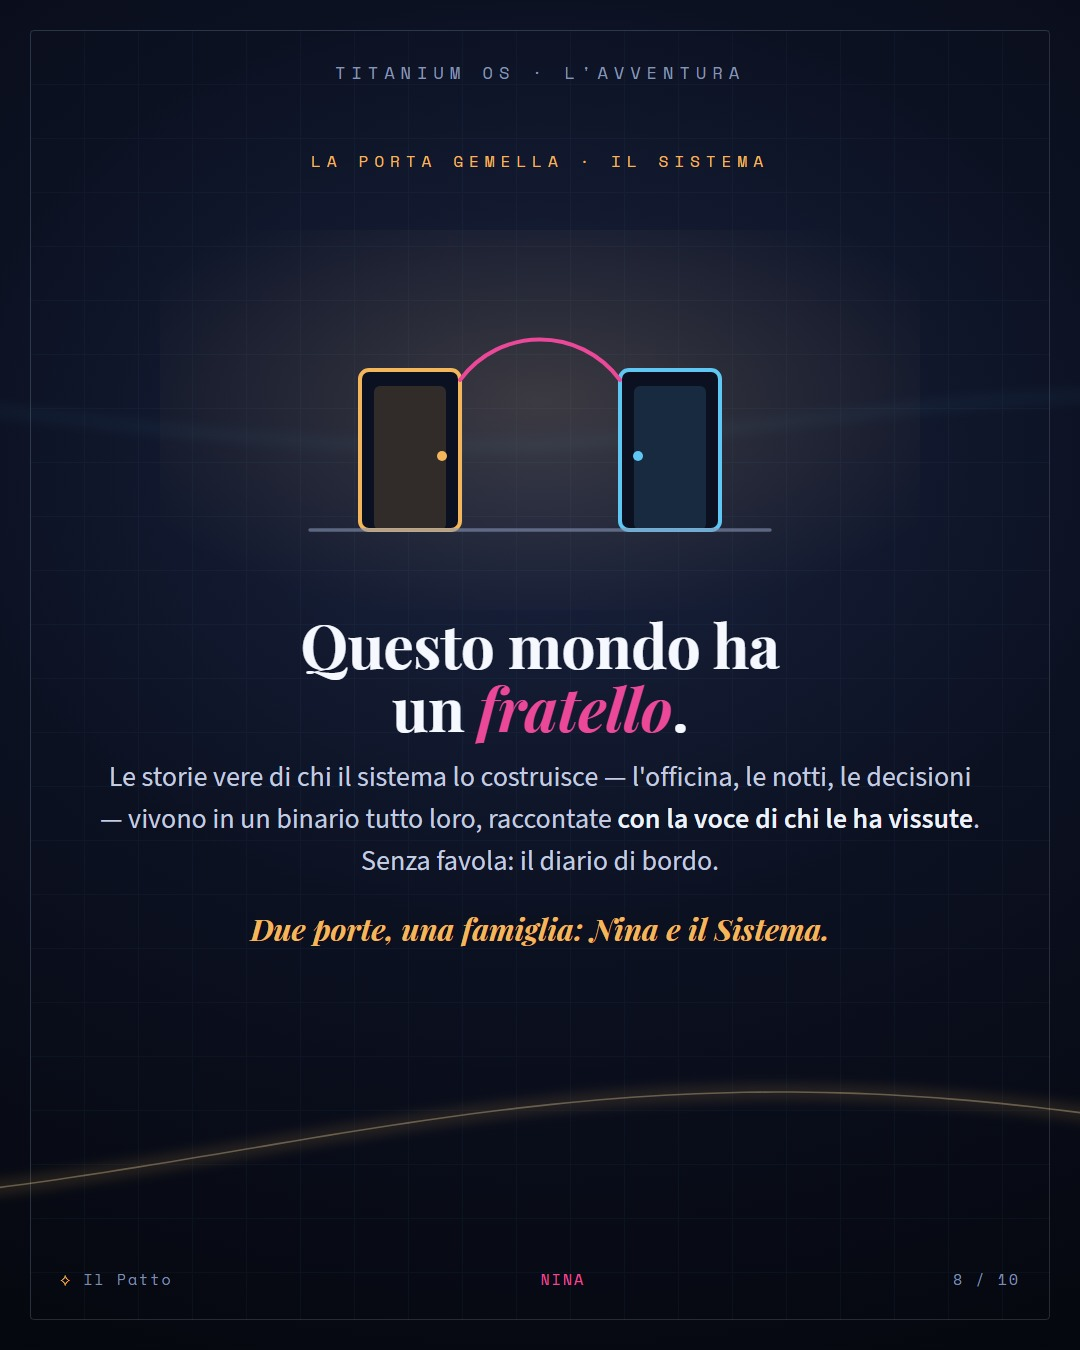
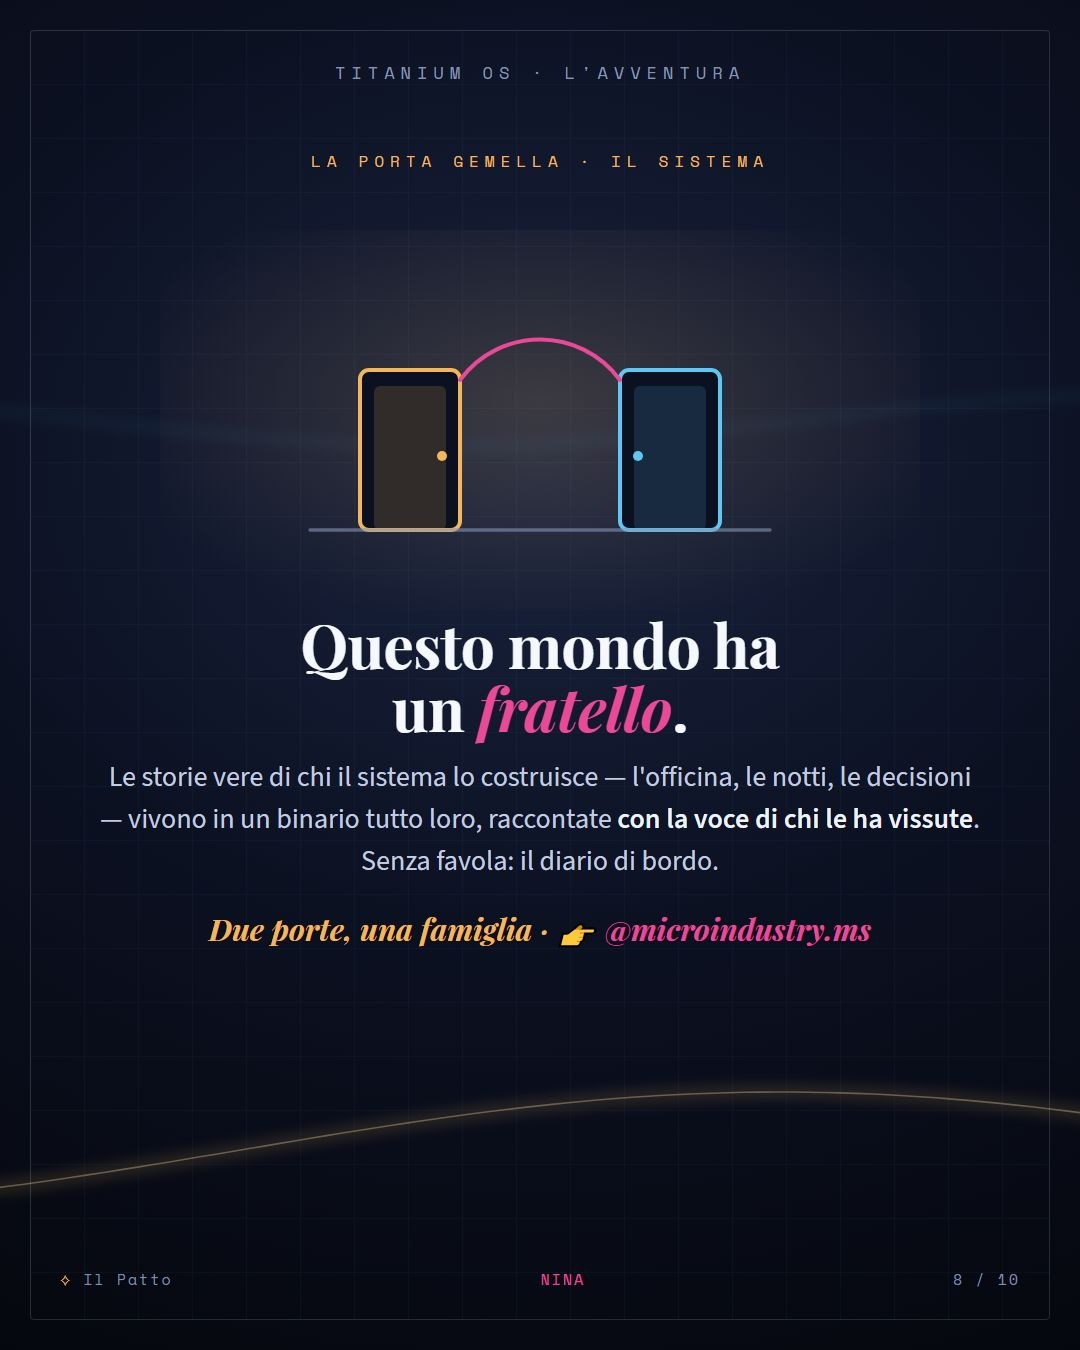
feat(caroselli): slide-ponte con @handle cross-profilo (PRE_04 + PRE_SG_04)
Aggiunto l'@mention dell'altro profilo sulla slide 8 dei 2 caroselli-ponte, così
la cross-promo è visibile anche a chi non legge la caption:
- NINA/PRE_04 slide 8 "porta gemella" -> 👉 @microindustry.ms
- SISTEMA/PRE_SG_04 slide 8 "L'altra porta" -> 👉 @ilmondodinina.ms
Editati i sorgenti _build_*.py, rigenerato carosello.html, reso via nuovo strumento
riusabile _render_slide.py (chrome headless, 1 slide 1080x1350), copiato in coda.
Verificate a occhio (layout intatto). Post gia in coda -> Matteo ha cancellato e ricaricato.

Claude-Session: https://claude.ai/code/session_01GY8W3BtJXUYBJLwVs1NQzK

Changed region(s): [[0.1833, 0.6533, 0.825, 0.7156]]

diff --git a/CONTENT_ENGINE/DATABASE/MONDO/POSTER/CAROSELLI/SISTEMA/PRE_SG_04/carosello.html b/CONTENT_ENGINE/DATABASE/MONDO/POSTER/CAROSELLI/SISTEMA/PRE_SG_04/carosello.html
@@ -68,7 +68,7 @@ body { display:flex; flex-direction:column; align-items:center; gap:40px; paddin
   <div class="scene"><svg width="760" height="360" viewBox="0 0 760 360" fill="none"><defs><radialGradient id="glow" cx="50%" cy="45%" r="60%"><stop offset="0%" stop-color="#5fc7f3" stop-opacity="0.16"/><stop offset="100%" stop-color="#5fc7f3" stop-opacity="0"/></radialGradient><radialGradient id="glowg" cx="50%" cy="45%" r="60%"><stop offset="0%" stop-color="#f4b65a" stop-opacity="0.16"/><stop offset="100%" stop-color="#f4b65a" stop-opacity="0"/></radialGradient></defs><rect width="760" height="360" fill="url(#glow)"/><path d="M330 90 L380 210" stroke="#eef2fb" stroke-width="5" stroke-linecap="round"/><path d="M330 90 L318 60 M330 90 L300 84" stroke="#8595b4" stroke-width="4" stroke-linecap="round"/><circle cx="380" cy="214" r="10" fill="#f4b65a"/><circle cx="380" cy="214" r="26" stroke="#f4b65a" stroke-opacity="0.5" stroke-width="2"/><path d="M380 214 L420 190 M380 214 L430 226 M380 214 L400 258 M380 214 L352 256" stroke="#f4b65a" stroke-width="3" stroke-linecap="round" stroke-opacity="0.85"/><path d="M140 268 H620" stroke="#5fc7f3" stroke-width="3" stroke-linecap="round" stroke-opacity="0.7"/><path d="M170 268 v-16 h60 v16 M420 268 v-22 h90 v22" stroke="#8595b4" stroke-width="3" stroke-opacity="0.8"/></svg></div>
   <div class="body2">
     <div class="lead">Una macchina costruita<br>in <span class="cyan">casa</span>. Da zero.</div>
-    <div class="intro">La caccia ai pezzi giusti, i tentativi sbagliati prima di quello buono, e un corpo unico d'acciaio progettato per non tremare — oggi al telaio, ogni pezzo scelto. <span class="soft">Ogni decisione, raccontata.</span></div>
+    <div class="intro">La caccia ai pezzi giusti, i tentativi sbagliati prima di quello buono, e un corpo d'acciaio da 178 kg che non trema. <span class="soft">Ogni decisione, raccontata.</span></div>
   </div>
   <div class="footer"><span>TITANIUM_OS</span><span class="dot">PRE_SG_04 · 3 / 10</span><span class="matteo">matteo</span></div>
 </div>
@@ -133,7 +133,7 @@ body { display:flex; flex-direction:column; align-items:center; gap:40px; paddin
   <div class="scene"><svg width="760" height="360" viewBox="0 0 760 360" fill="none"><defs><radialGradient id="glow" cx="50%" cy="45%" r="60%"><stop offset="0%" stop-color="#5fc7f3" stop-opacity="0.16"/><stop offset="100%" stop-color="#5fc7f3" stop-opacity="0"/></radialGradient><radialGradient id="glowg" cx="50%" cy="45%" r="60%"><stop offset="0%" stop-color="#f4b65a" stop-opacity="0.16"/><stop offset="100%" stop-color="#f4b65a" stop-opacity="0"/></radialGradient></defs><rect width="760" height="360" fill="url(#glow)"/><rect x="340" y="140" width="100" height="150" rx="8" stroke="#ec4899" stroke-width="4" fill="#0c1122"/><circle cx="420" cy="218" r="5" fill="#ec4899"/><text x="390" y="106" text-anchor="middle" font-family="playfair-display" font-size="44" fill="#ec4899" font-style="italic">?</text></svg></div>
   <div class="body2">
     <div class="lead">C'è anche una porta<br><span class="pink">rosa</span>.</div>
-    <div class="intro">Si chiama <span class="pink">Nina</span>: lo stesso sistema, spiegato giocando — una bambina che chiede «perché?» a ogni cosa. Per i piccoli. <span class="soft">E per i grandi che vogliono capire davvero.</span></div>
+    <div class="intro">Si chiama <span class="pink">Nina</span>: lo stesso sistema, spiegato giocando — una bambina che chiede «perché?» a ogni cosa. Per i piccoli. <span class="soft">E per i grandi che vogliono capire davvero.</span></div><div class="seal">La porta di Nina · 👉 @ilmondodinina.ms</div>
   </div>
   <div class="footer"><span>TITANIUM_OS</span><span class="dot">PRE_SG_04 · 8 / 10</span><span class="matteo">matteo</span></div>
 </div>

diff --git a/CONTENT_ENGINE/DATABASE/MONDO/POSTER/CAROSELLI/NINA/PRE_04/carosello.html b/CONTENT_ENGINE/DATABASE/MONDO/POSTER/CAROSELLI/NINA/PRE_04/carosello.html
@@ -181,7 +181,7 @@ body { display:flex; flex-direction:column; align-items:center; gap:40px; paddin
   <div class="body2 s2">
     <div class="lead">Questo mondo ha<br>un <span class="pink">fratello</span>.</div>
     <div class="intro">Le storie vere di chi il sistema lo costruisce — l'officina, le notti, le decisioni — vivono in un binario tutto loro, raccontate <span class="soft">con la voce di chi le ha vissute</span>. Senza favola: il diario di bordo.</div>
-    <div class="seal">Due porte, una famiglia: Nina e il Sistema.</div>
+    <div class="seal">Due porte, una famiglia · 👉 <span class="pink">@microindustry.ms</span></div>
   </div>
   <div class="footer"><span><span class="dot">⟡</span>&nbsp;Il Patto</span><span class="nina">NINA</span><span>8 / 10</span></div>
 </div>

diff --git a/CONTENT_ENGINE/DATABASE/MONDO/POSTER/CAROSELLI/_render_slide.py b/CONTENT_ENGINE/DATABASE/MONDO/POSTER/CAROSELLI/_render_slide.py
@@ -1,0 +1,34 @@
+# _render_slide.py | TITANIUM_OS / CAROSELLI | v1.0 | 2026-07-20
+# Rende UNA slide (1080x1350) di un carosello.html a marker <!-- ===== N -->.
+# Compatibile coi caroselli build-style con SVG inline per-slide (no <svg width="0"> globale).
+# Uso: python _render_slide.py <carosello.html> <out.jpg> <N>
+import sys, os, re, subprocess, tempfile
+from PIL import Image
+
+html, out, n = sys.argv[1], os.path.abspath(sys.argv[2]), int(sys.argv[3])
+src = open(html, encoding="utf-8").read()
+
+# head: togli gap/padding della colonna così la singola slide sta a 0,0
+head = (src.split("<body>")[0]
+        .replace("padding:40px 0", "padding:0")
+        .replace("gap:40px", "gap:0"))
+
+a = src.index(f"<!-- ===== {n} ")
+nxt = src.find("<!-- ===== ", a + 5)
+b = nxt if nxt != -1 else src.index("</body>")
+block = src[a:b].strip()
+
+doc = head + "<body>\n" + block + "\n</body></html>"
+tmp = out + ".tmp.html"
+open(tmp, "w", encoding="utf-8").write(doc)
+
+chrome = r"C:\Program Files\Google\Chrome\Application\chrome.exe"
+ud = tempfile.mkdtemp(prefix="chr_sl_")
+subprocess.run([chrome, "--headless", "--disable-gpu", "--hide-scrollbars",
+                f"--user-data-dir={ud}", "--window-size=1080,1350",
+                "--virtual-time-budget=5000", f"--screenshot={out}",
+                "file:///" + os.path.abspath(tmp).replace("\\", "/")], check=False)
+im = Image.open(out)
+im.crop((0, 0, 1080, 1350)).convert("RGB").save(out, quality=92)
+os.remove(tmp)
+print("rendered", out, "->", im.size)

diff --git a/CONTENT_ENGINE/DATABASE/MONDO/POSTER/CAROSELLI/SISTEMA/PRE_SG_04/_build_pre_sg_04.py b/CONTENT_ENGINE/DATABASE/MONDO/POSTER/CAROSELLI/SISTEMA/PRE_SG_04/_build_pre_sg_04.py
@@ -52,7 +52,8 @@ S = [
          intro='Su Instagram il taglio social di ogni storia; il percorso completo — piu profondo, con tutti i capitoli — vive sul sito.'),
     dict(social=True, scene="porta_nina", kicker="L'ALTRA PORTA",
          lead='C\'è anche una porta<br><span class="pink">rosa</span>.',
-         intro='Si chiama <span class="pink">Nina</span>: lo stesso sistema, spiegato giocando — una bambina che chiede «perché?» a ogni cosa. Per i piccoli. <span class="soft">E per i grandi che vogliono capire davvero.</span>'),
+         intro='Si chiama <span class="pink">Nina</span>: lo stesso sistema, spiegato giocando — una bambina che chiede «perché?» a ogni cosa. Per i piccoli. <span class="soft">E per i grandi che vogliono capire davvero.</span>',
+         seal='La porta di Nina · 👉 @ilmondodinina.ms'),
     dict(social=False, scene="patto", kicker="IL PATTO, IN UNA RIGA",
          lead='Tutto <span class="accent">vero</span>.<br>Fonti, numeri, guasti.',
          intro='L\'AI che produce è dichiarata, il controllo è automatico, la voce è la mia.'),

diff --git a/CONTENT_ENGINE/DATABASE/MONDO/POSTER/CAROSELLI/NINA/PRE_04/_build_pre_04.py b/CONTENT_ENGINE/DATABASE/MONDO/POSTER/CAROSELLI/NINA/PRE_04/_build_pre_04.py
@@ -207,7 +207,7 @@ def build():
   <div class="body2 s2">
     <div class="lead">Questo mondo ha<br>un <span class="pink">fratello</span>.</div>
     <div class="intro">Le storie vere di chi il sistema lo costruisce — l'officina, le notti, le decisioni — vivono in un binario tutto loro, raccontate <span class="soft">con la voce di chi le ha vissute</span>. Senza favola: il diario di bordo.</div>
-    <div class="seal">Due porte, una famiglia: Nina e il Sistema.</div>
+    <div class="seal">Due porte, una famiglia · 👉 <span class="pink">@microindustry.ms</span></div>
   </div>''', SCENES[8]))
 
     slides.append(slide(9, "Perché restare", '''

diff --git a/CONTENT_ENGINE/DATABASE/MONDO/POSTER/_SCALETTA_INTERSECATA.md b/CONTENT_ENGINE/DATABASE/MONDO/POSTER/_SCALETTA_INTERSECATA.md
@@ -57,8 +57,10 @@
 
 | Post che nomina l'altro | Data | Linka | L'altro è vivo per allora? | Link nel testo |
 |--|--|--|--|--|
-| ⚙ `PRE_SG_04` (già schedulato) | 28/07 | @ilmondodinina.ms | ✅ Nina già creata | ⚠ da mettere A MANO in Business Suite |
-| 🌙 `PRE_04` (non ancora schedulato) | 02/08 | @microindustry.ms | ✅ microindustry attivo | ✅ già nella descrizione |
+| ⚙ `PRE_SG_04` (schedulato 28/07) | 28/07 | @ilmondodinina.ms | ✅ Nina creata | ✅ su **slide 8** + caption → CANCELLA e RICARICA in Business Suite |
+| 🌙 `PRE_04` (schedulato 02/08) | 02/08 | @microindustry.ms | ✅ microindustry attivo | ✅ su **slide 8** + caption → CANCELLA e RICARICA in Business Suite |
+
+*Slide-ponte rigenerate 20/07 (sorgente `_build_*.py` → `_render_slide.py`): la #8 di ciascuno ora mostra l'@handle dell'altro profilo. Entrambe erano già in coda → vanno ricaricate.*
 
 **Bio (cross-link reciproco):**
 - `@microindustry.ms` → riga «🌙 e @ilmondodinina.ms» aggiunta al kit (⚠ da applicare a mano sul profilo)
